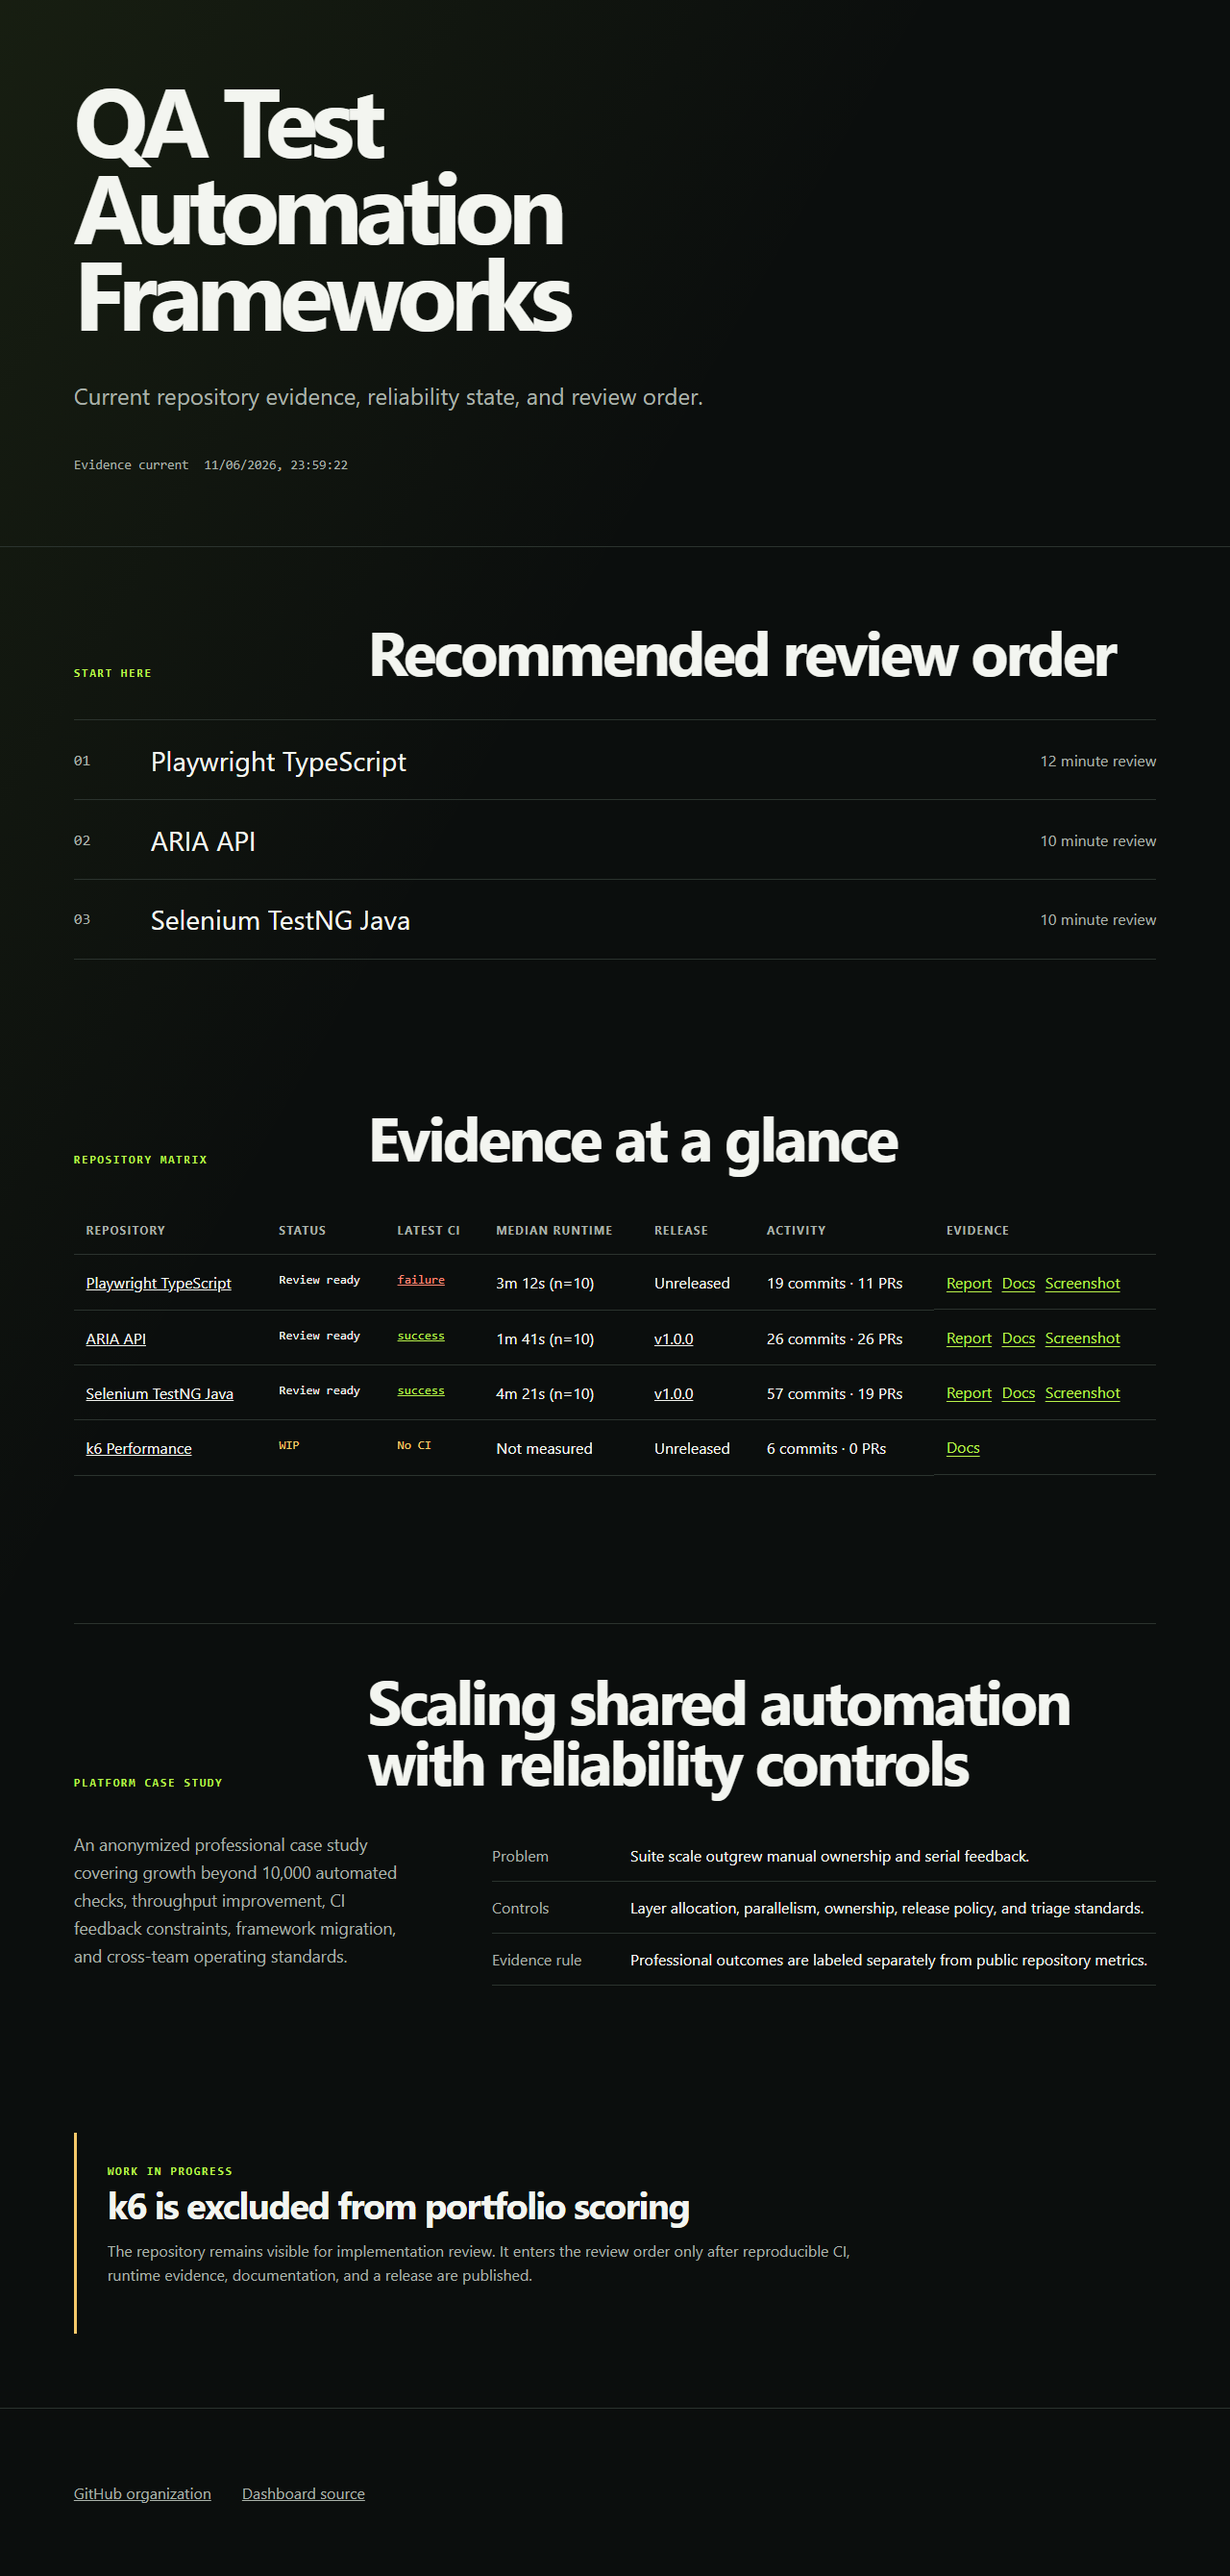
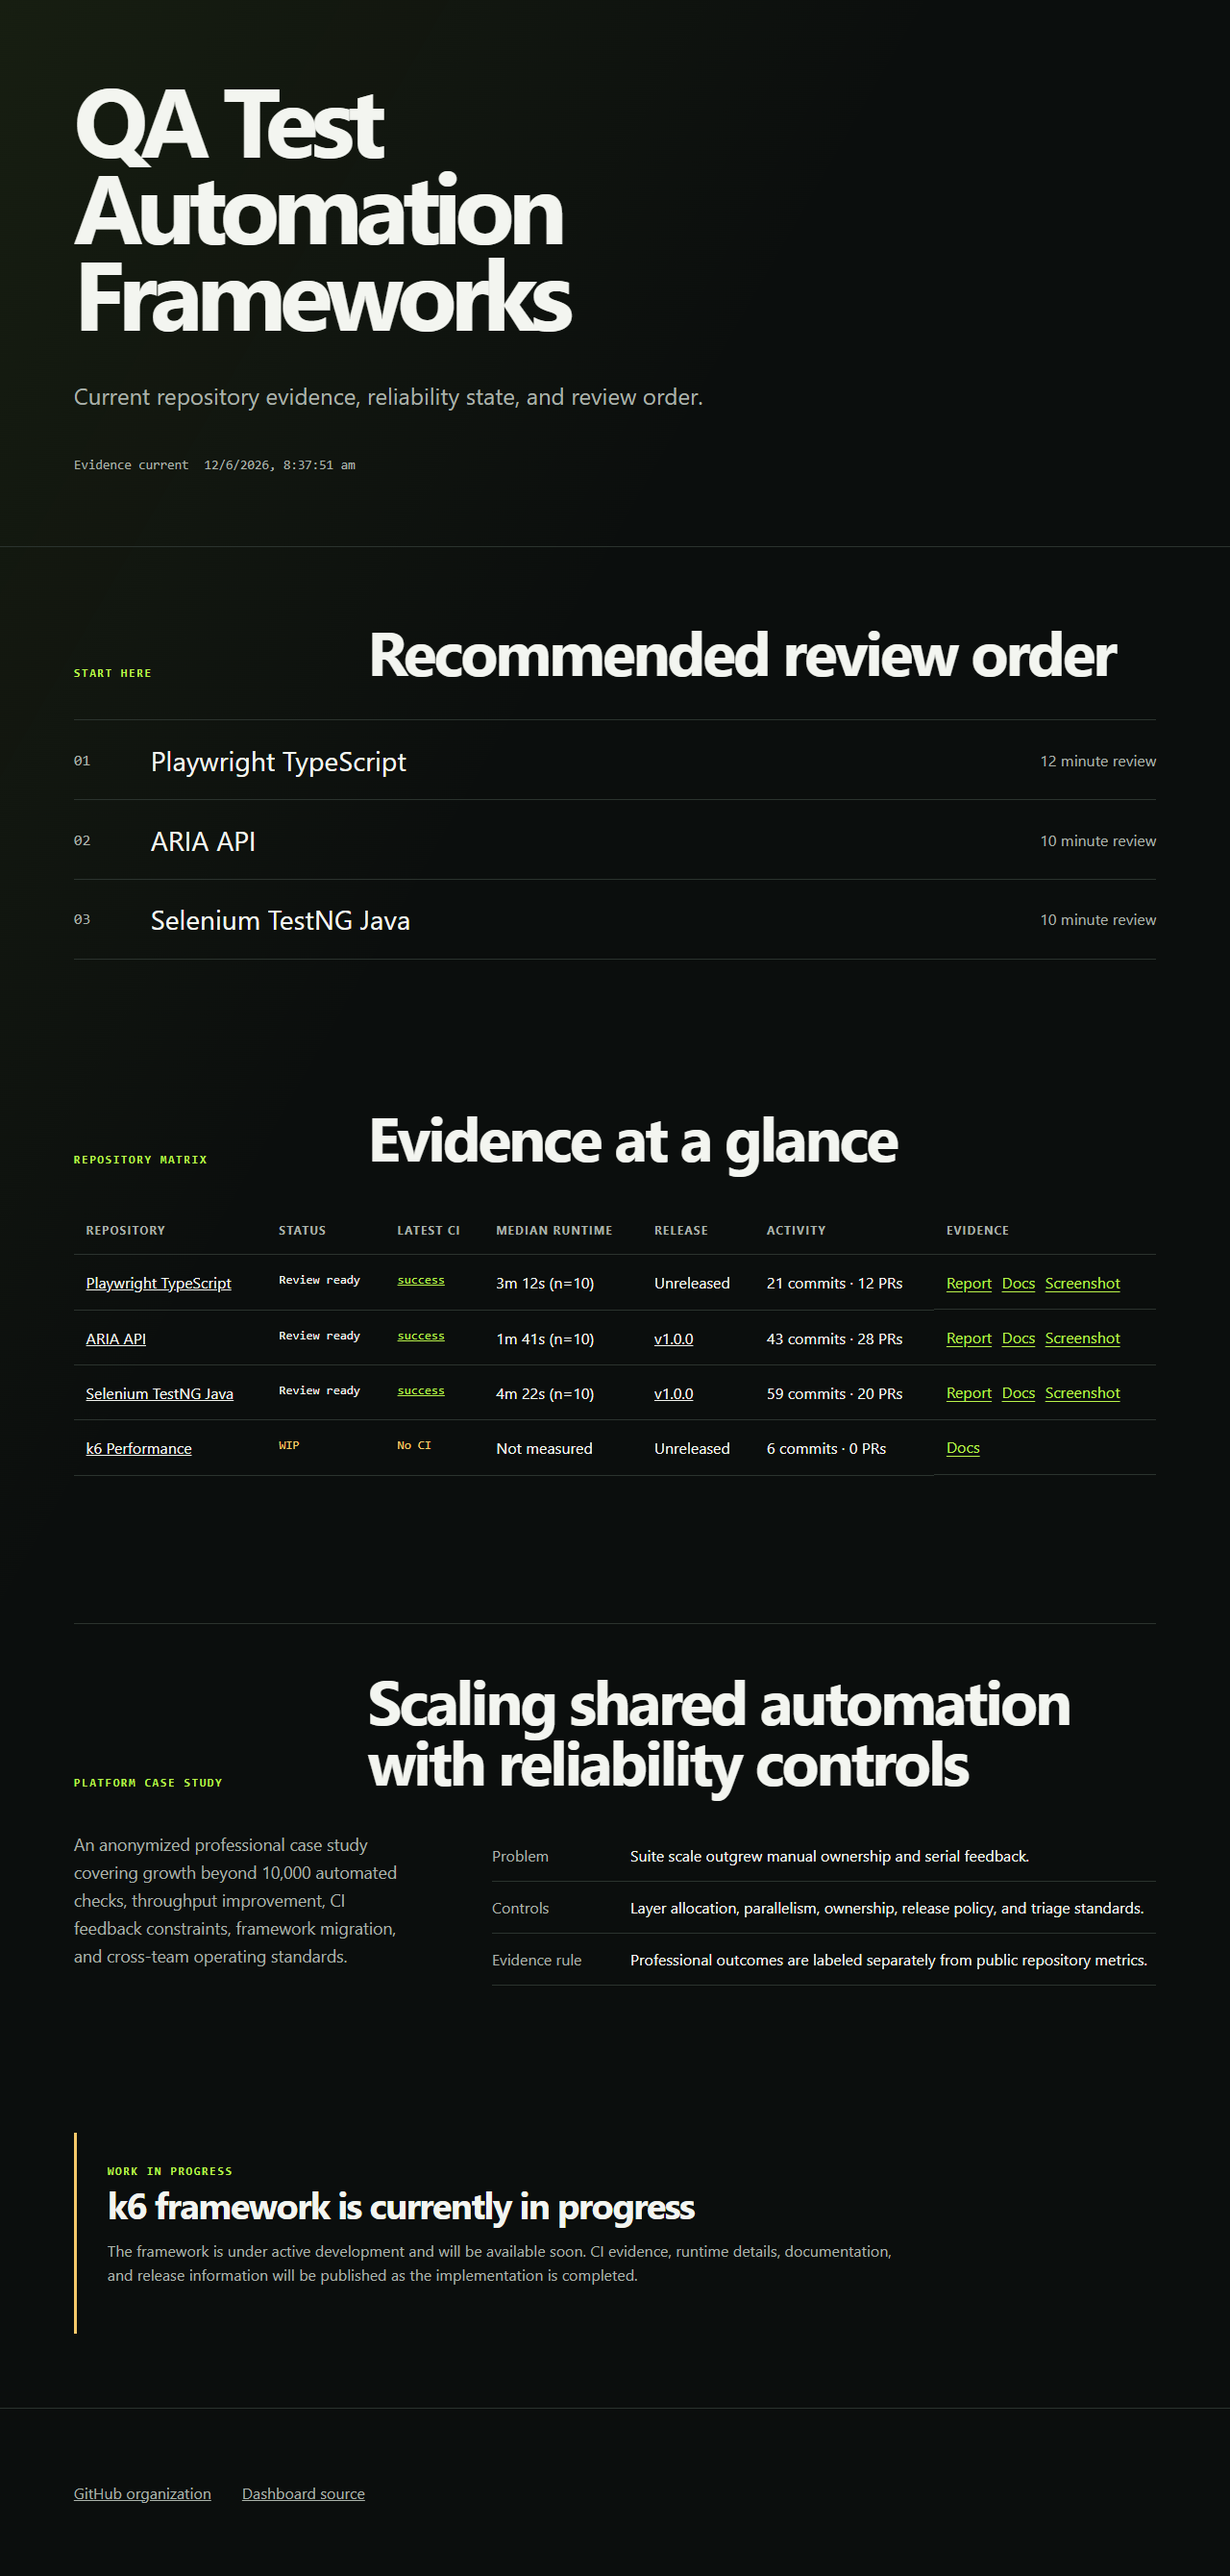
Update dashboard status presentation

Changed region(s): [[0.0938, 0.8365, 0.5625, 0.8985]]

diff --git a/site/index.html b/site/index.html
@@ -76,11 +76,11 @@
 
       <aside class="wip" aria-labelledby="wip-title">
         <p class="eyebrow">Work in progress</p>
-        <h2 id="wip-title">k6 is excluded from portfolio scoring</h2>
+        <h2 id="wip-title">k6 framework is currently in progress</h2>
         <p>
-          The repository remains visible for implementation review. It enters the review
-          order only after reproducible CI, runtime evidence, documentation, and a release
-          are published.
+          The framework is under active development and will be available soon. CI evidence,
+          runtime details, documentation, and release information will be published as the
+          implementation is completed.
         </p>
       </aside>
     </main>

diff --git a/profile/README.md b/profile/README.md
@@ -27,8 +27,9 @@ execution, explicit trade-offs, failure evidence, and measurable CI behavior.
 | [Selenium TestNG Java](https://github.com/qa-test-automation-frameworks/selenium-testng-java-framework) | Grid browser matrix, typed configuration, parallel drivers, and failure diagnostics | [![CI](https://github.com/qa-test-automation-frameworks/selenium-testng-java-framework/actions/workflows/ui-tests.yml/badge.svg?branch=main)](https://github.com/qa-test-automation-frameworks/selenium-testng-java-framework/actions/workflows/ui-tests.yml) | [Allure](https://qa-test-automation-frameworks.github.io/selenium-testng-java-framework/) | [Releases](https://github.com/qa-test-automation-frameworks/selenium-testng-java-framework/releases) | [Review guide](https://github.com/qa-test-automation-frameworks/selenium-testng-java-framework/blob/main/docs/PORTFOLIO_REVIEW_GUIDE.md) |
 
 > **Work in progress:** [`k6-performance-framework`](https://github.com/qa-test-automation-frameworks/k6-performance-framework)
-> is public for implementation review, but it is excluded from portfolio scoring
-> and recommended review order until its CI, evidence, and first release are complete.
+> is under active development and will be available soon. CI evidence, runtime
+> details, documentation, and release information will be published as the
+> implementation is completed.
 
 ## Platform case study
 
@@ -44,4 +45,4 @@ metrics and professional outcomes are presented separately.
 - Controlled targets are identified as controlled targets; external compatibility
   checks are reported separately.
 - Retries, quarantines, and known limitations remain visible.
-- Work in progress is not counted as completed portfolio evidence.
+- Work-in-progress repositories are clearly identified until implementation is complete.
